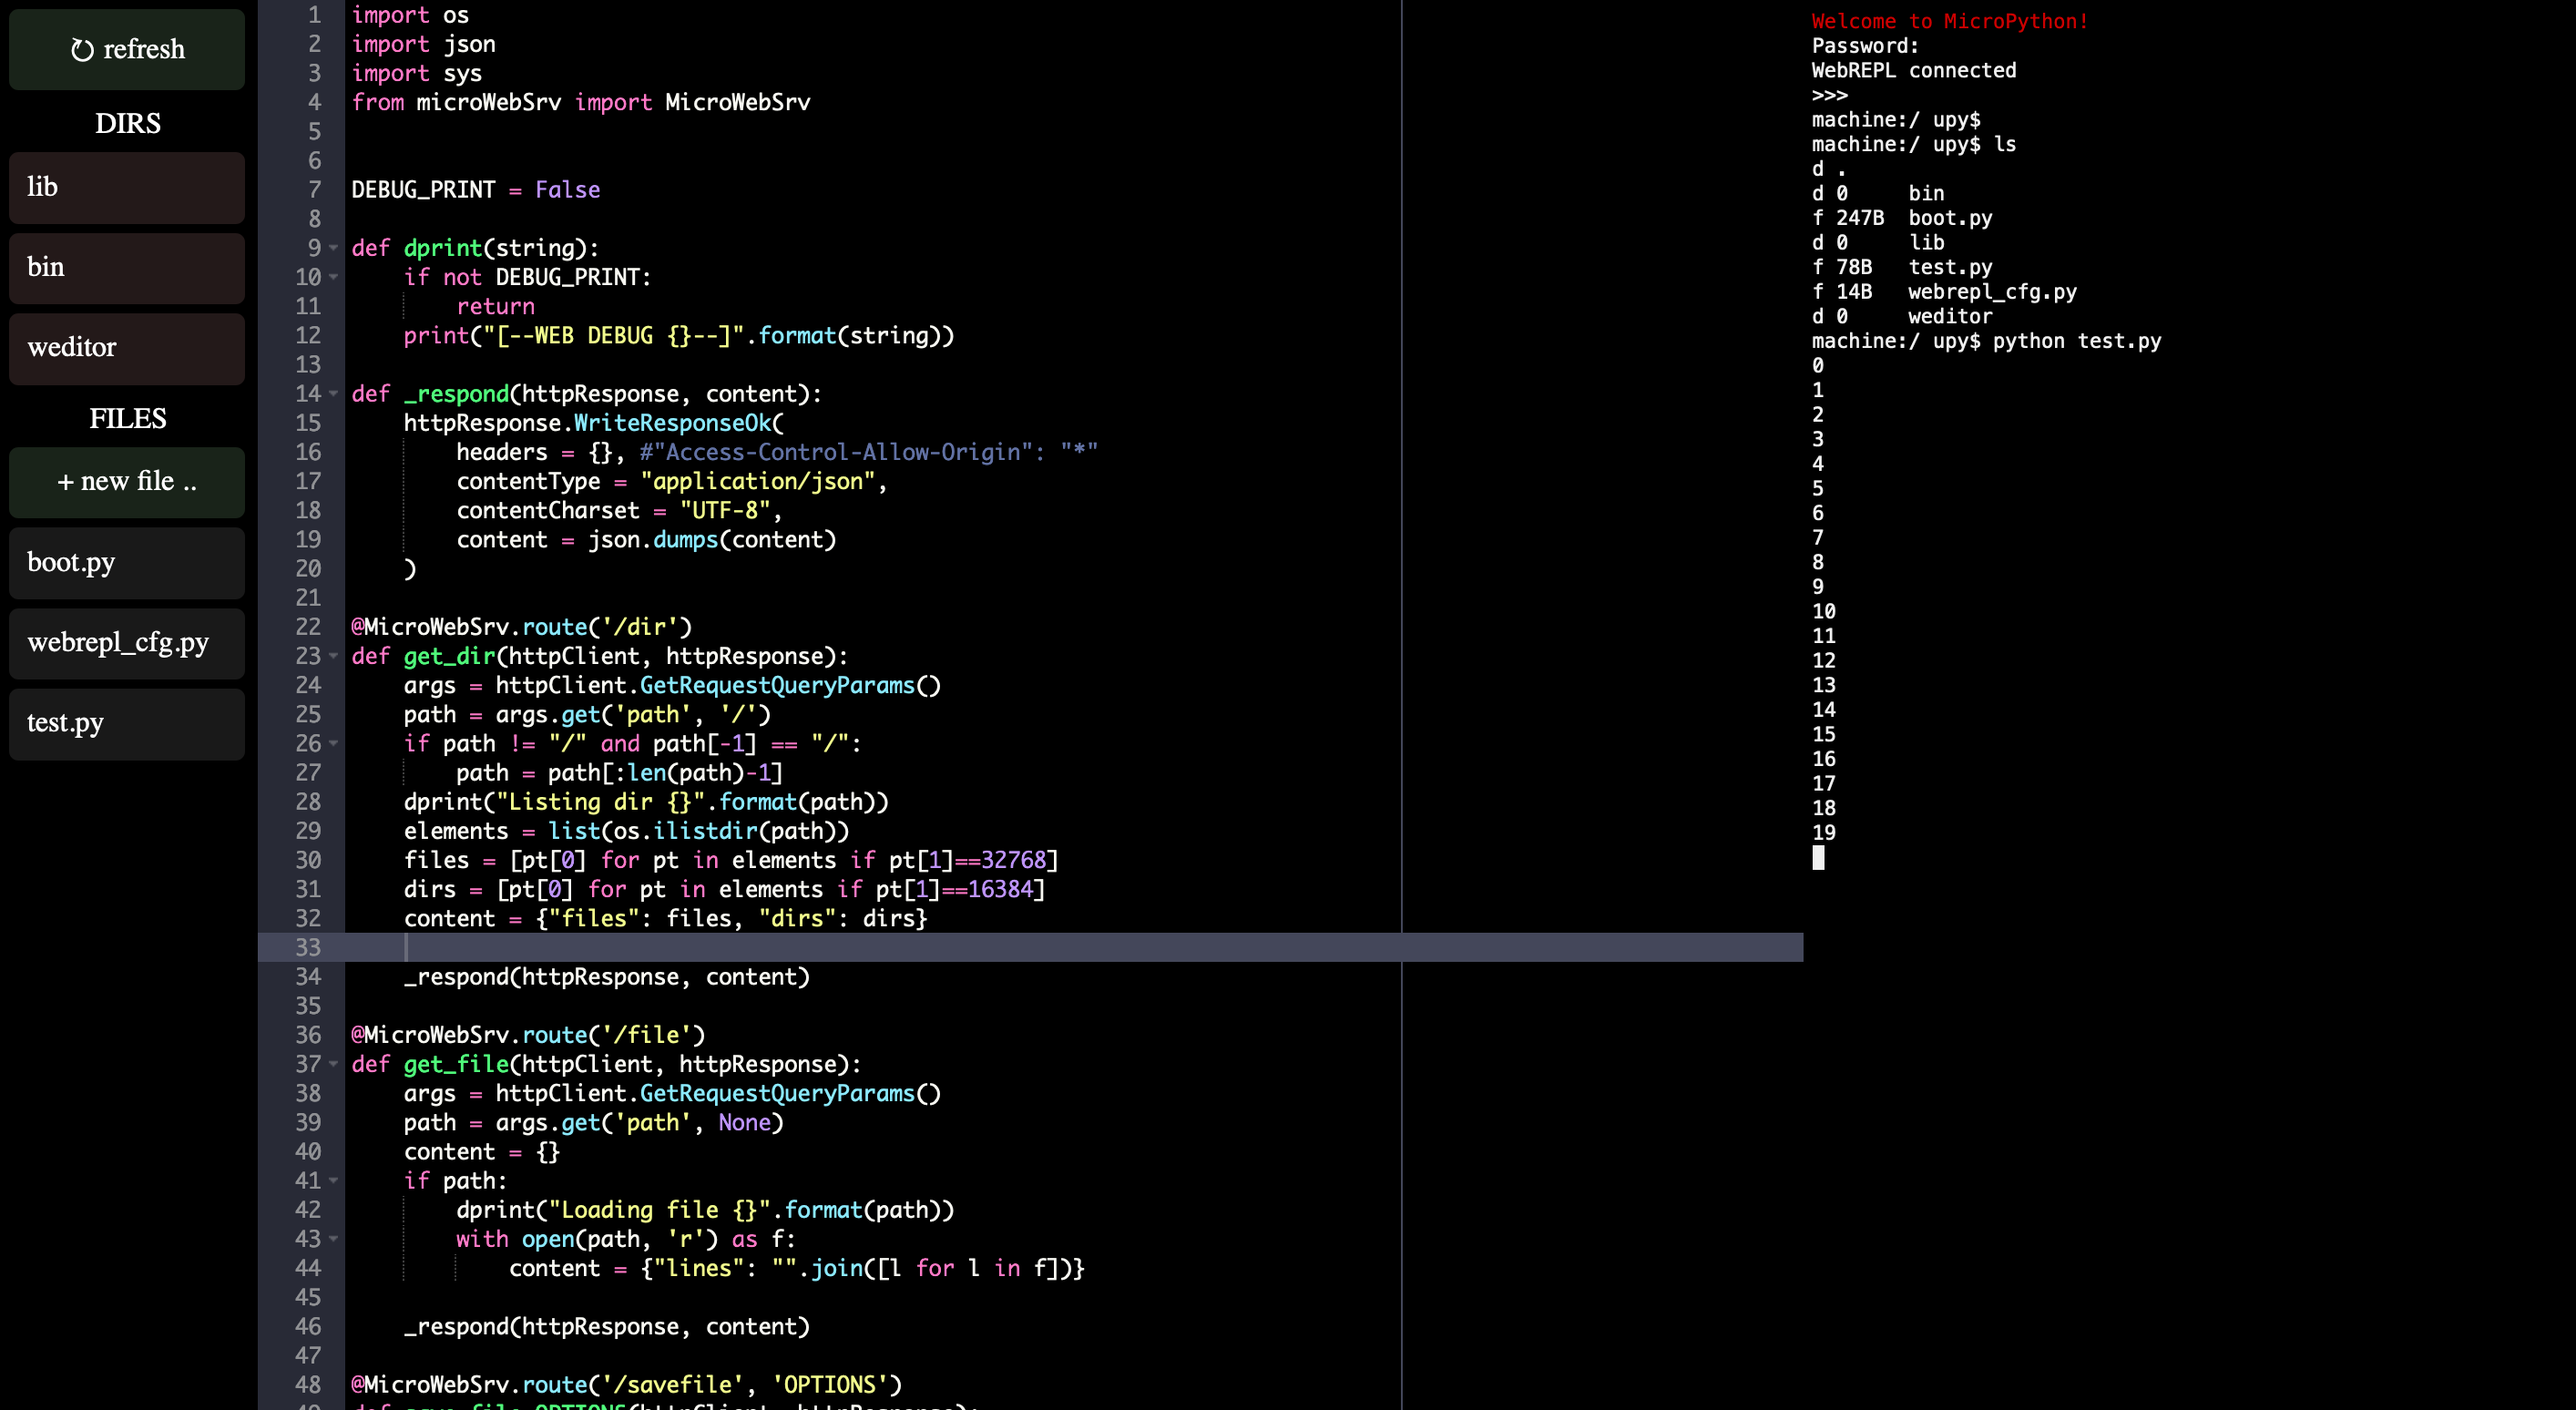
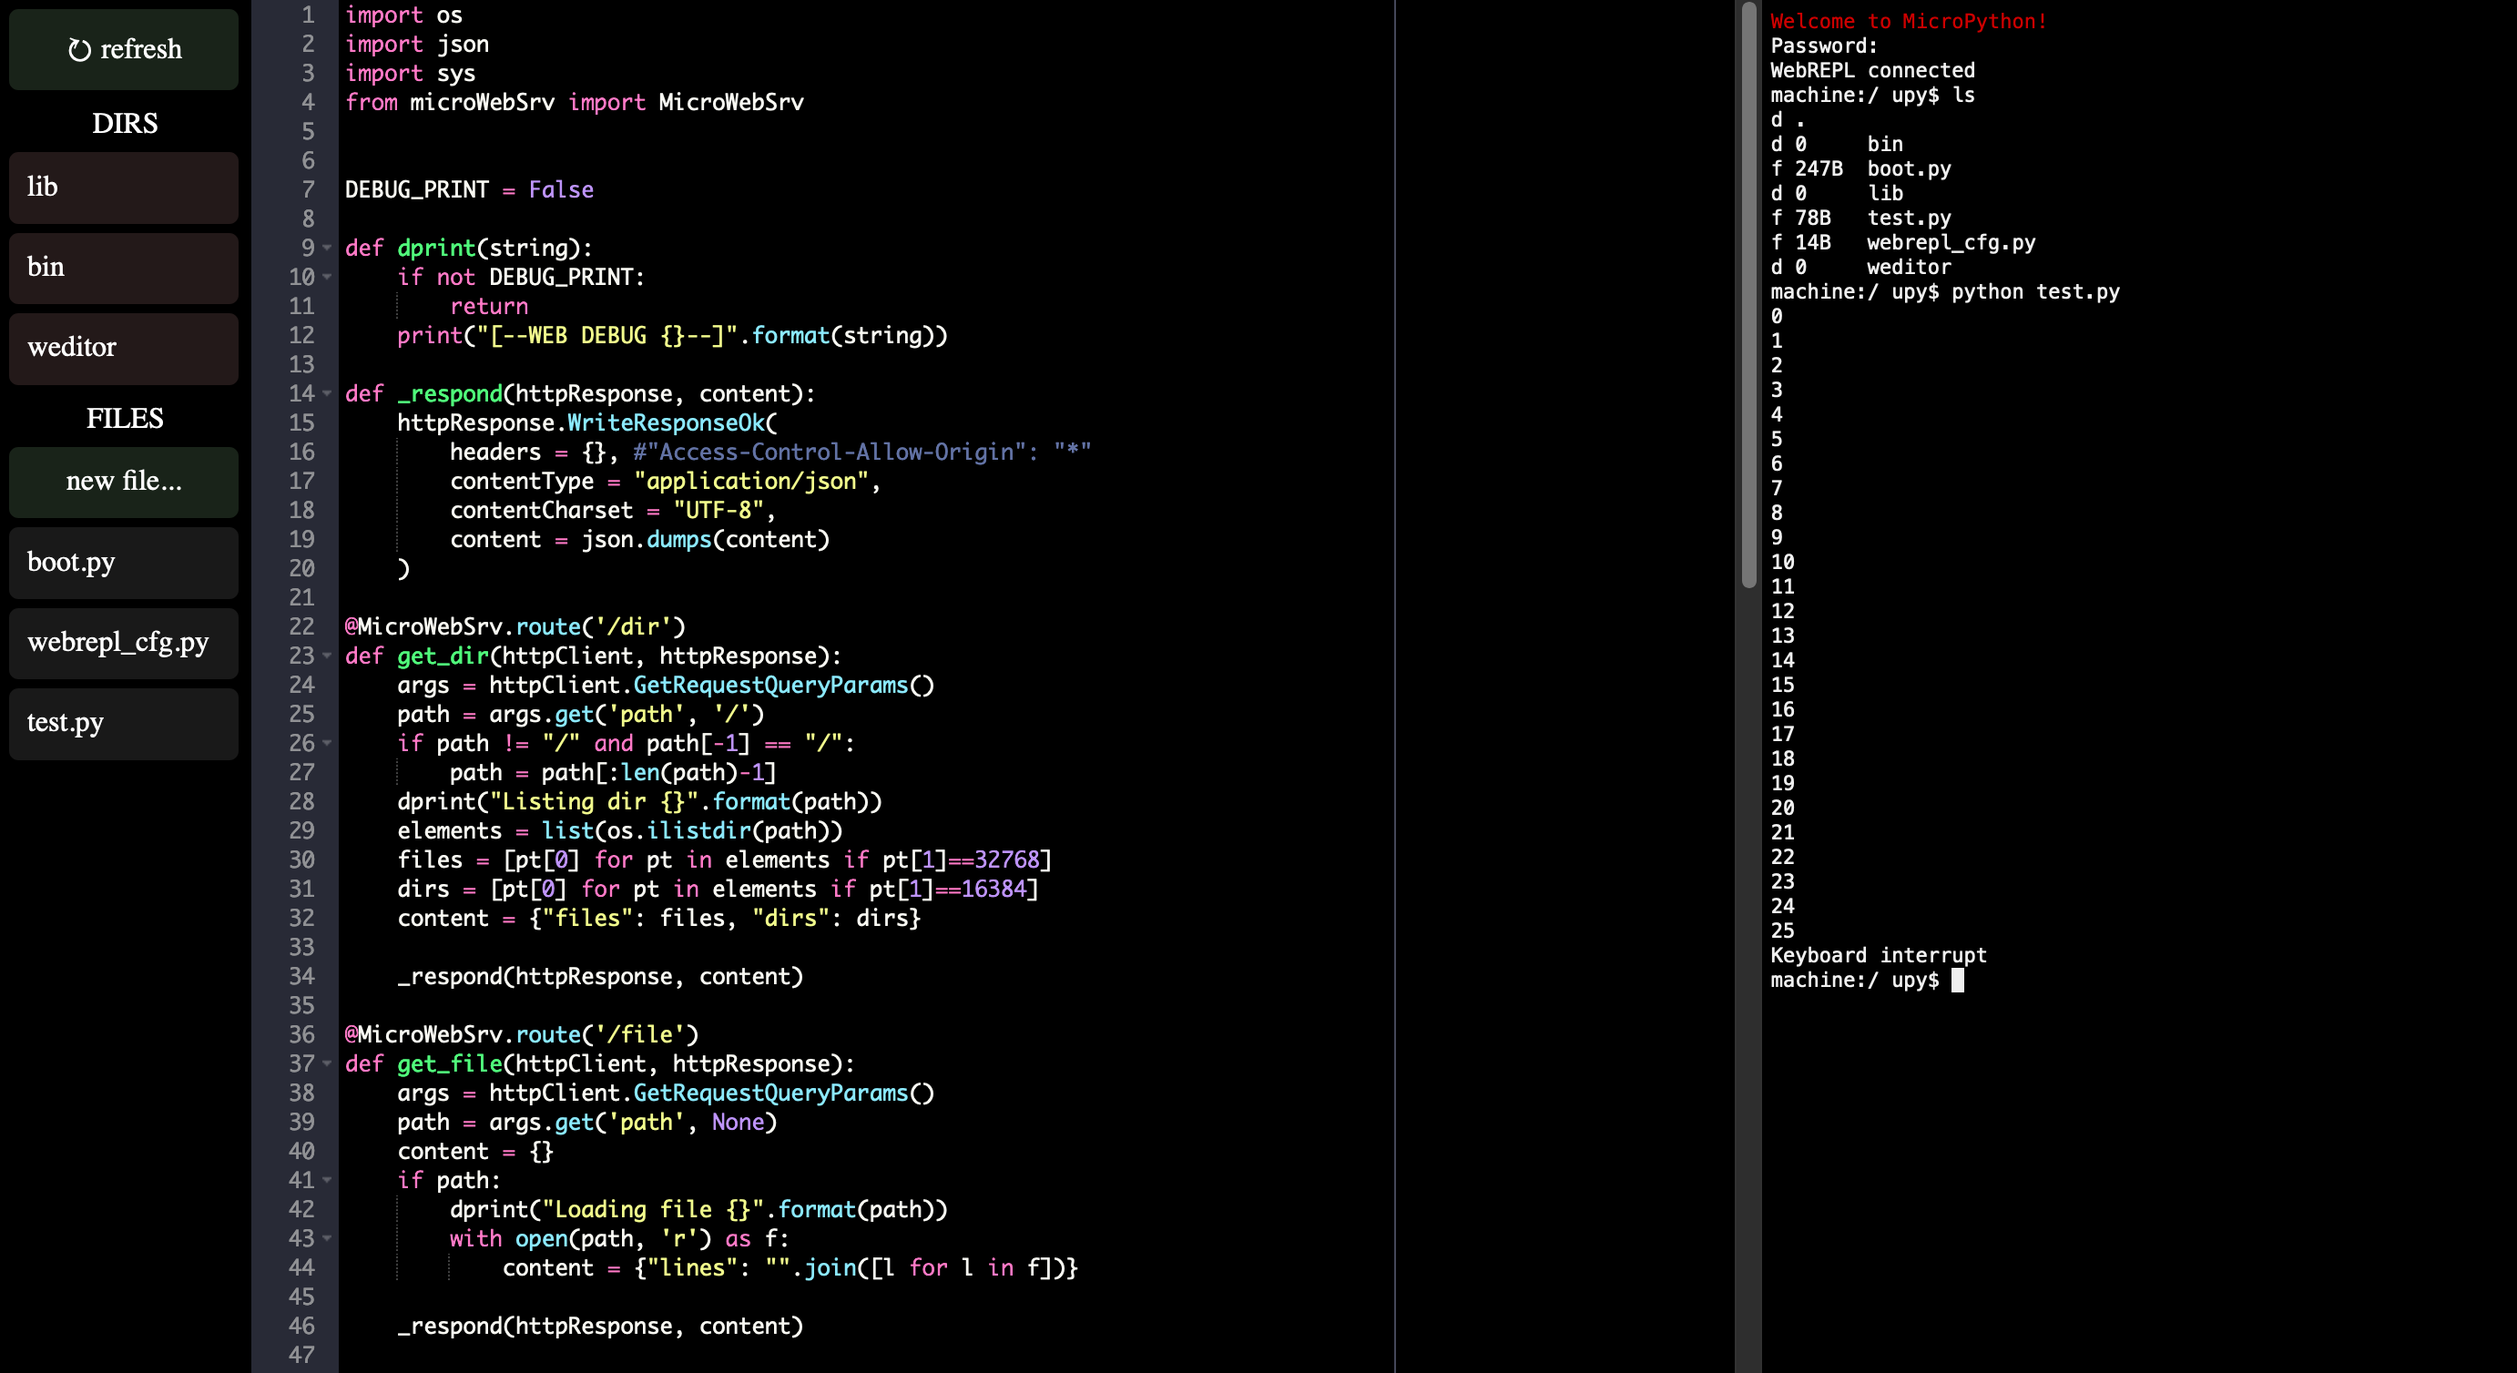
Updated formatting, minor improvements

diff --git a/weditor/js/script.js b/weditor/js/script.js
@@ -9,17 +9,16 @@ function initEditor() {
 }
 
 function showNotification(text, seconds) {
-    var notifHolder = document.getElementById("notification");
-    var notifText = document.getElementById("notificationText");
-    notifText.innerHTML = text;
-    notifHolder.style.display = "block";
+    var notification = document.getElementById("notification");
+    notification.innerHTML = text;
+    notification.style.display = "block";
     if (seconds) {
-        setTimeout(hideNotification, seconds*1000);
+        setTimeout(hideNotification, seconds * 1000);
     }
 }
 function hideNotification() {
-    var notifHolder = document.getElementById("notification");
-    notifHolder.style.display = "none";
+    var notification = document.getElementById("notification");
+    notification.style.display = "none";
 }
 
 function actionRefreshDirectory() {
@@ -32,8 +31,8 @@ function actionActivateDirectory(event) {
 }
 function actionActivateParentDirectory(event) {
     var components = window.activeFileDir.split("/");
-    if (components.lenght <= 2) return;
-    components.splice(components.length-2, 1);
+    if (components.length <= 2) return;
+    components.splice(components.length - 2, 1);
     window.activeFileDir = components.join("/");
     loadDirPath(window.activeFileDir);
 }
@@ -46,27 +45,27 @@ function actionCreateNewFile(event) {
     if (fname) {
         fpath = window.activeFileDir + fname;
         showNotification("Creating file: " + fpath);
-        fetch("/newfile?path="+fpath).then(response=>response.json()).then(json=>createdFile(json));
+        fetch("/newfile?path=" + fpath).then(response => response.json()).then(json => createdFile(json));
     }
 }
 function actionActivateFile(event) {
     var fpath = window.activeFileDir + event.target.innerHTML;
     console.log("Loading file ", "==" + fpath + "==");
     showNotification("Loading file: " + fpath);
-    fetch("/file?path="+fpath).then(response=>response.json()).then(json=>loadedFile(fpath, json['lines']));
+    fetch("/file?path=" + fpath).then(response => response.json()).then(json => loadedFile(fpath, json['lines']));
 }
 function loadedFile(fname, lines) {
     editor.setValue(lines);
     var components = fname.split(".");
     var mode = "plain_text";
     if (components.length > 1) {
-        var ext = components[components.length-1];
-        if (ext=="py") mode = "python";
-        if (ext=="html") mode = "html";
-        if (ext=="css") mode = "css";
-        if (ext=="js") mode = "javascript";
+        var ext = components[components.length - 1];
+        if (ext == "py") mode = "python";
+        if (ext == "html") mode = "html";
+        if (ext == "css") mode = "css";
+        if (ext == "js") mode = "javascript";
     }
-    editor.session.setMode("ace/mode/"+mode);
+    editor.session.setMode("ace/mode/" + mode);
     window.activeFilePath = fname;
     window.activeFileName = fname;
     editor.selection.clearSelection();
@@ -77,7 +76,7 @@ function actionSaveFile() {
     fetch('/savefile', {
         method: 'POST',
         headers: {
-        'Content-Type': 'application/json',
+            'Content-Type': 'application/json',
         },
         body: JSON.stringify({"lines": globalEditor.getValue(), "path": window.activeFilePath}),
     })
@@ -95,7 +94,7 @@ function actionSaveFile() {
 function loadDirPath(path) {
     window.activeFileDir = path;
     showNotification("Loading directory: " + path);
-    fetch("/dir?path="+path).then(response=>response.json()).then(json=>updateFileList(json));
+    fetch("/dir?path=" + path).then(response => response.json()).then(json => updateFileList(json));
 }
 function updateFileList(json) {
     var files = json.files;
@@ -122,7 +121,7 @@ function updateFileList(json) {
     }
     
     addSpan("FILES", "left_title");
-    addSpan("+ new file ..", "left_element left_action", actionCreateNewFile);
+    addSpan("new file...", "left_element left_action", actionCreateNewFile);
 
     for (var fileName of files) {
         addSpan(fileName, "left_element left_file", actionActivateFile);

diff --git a/weditor/style.css b/weditor/style.css
@@ -1,19 +1,11 @@
 
 body {
-    overflow: scroll;
+    overflow: auto;
     margin: 0;
     height: 100vh;
     background-color: black;
 }
 
-#editor2 {
-    margin: 0;
-    position: relative;
-    top: 0;
-    bottom: 0;
-    left: 0;
-    right: 0;
-}
 #editor {
     height: 100%;
     width: 100%;
@@ -21,37 +13,44 @@ body {
     background-color: black;
 }
 #left {
-    width: 10%; height:100%; float: left; position: relative; background-color: black; overflow: scroll; user-select: none; color: white;
+    position: relative; 
+    width: 10%; 
+    height: 100%; 
+    float: left; 
+    overflow: auto; 
+    user-select: none; 
+    background-color: black; 
+    color: white;
 }
 #notification {
     position: absolute;
-    width: 100%;
-    bottom: 0;
-    padding-bottom: 10px;
-    text-align: center;
-}
-#notificationText {
-    background-color: rgb(30,25,25);
+    bottom: 10px;
     width: 50%;
-    margin: 0 auto;
     padding: 10px;
-    display: inline-block;
+    margin: 0 auto;
+    right: 0;
+    left: 0;
+    text-align: center;
     border-radius: 5px;
+    background-color: rgb(30,25,25);
     color: white;
+}
+#term {
+    position: relative; width: 30%; height: 100%; float: left; background-color: black;
 }
 
 .left_title {
-    float: left;
     position: relative;
+    float: left;
     text-align: center;
     width: 100%;
     margin-top: 10px;
 }
 .left_element {
+    position: relative;
     width: calc(100% - 20px - 2px - 10px);
     margin: 5px 5px 0px 5px;
     padding: 10px;
-    position: relative;
     float: left;
     border-radius: 5px;
     color: white;
@@ -69,13 +68,6 @@ body {
 .left_dir {
     background-color: rgb(35,25,25);
 }
-
-#term {
-    width: 30%; height:calc(100% - 0px); float: left; position: relative; background-color: black;
-}
-.header {
-    width: 90%; height:0; float: left; position: relative; background-color: green;
-}
 .eholder {
-    width: 60%; height:calc(100% - 0px); float: left; position: relative; background-color: black;
+    position: relative; width: 60%; height: 100%; float: left; background-color: black;
 }

diff --git a/weditor/index.html b/weditor/index.html
@@ -15,17 +15,11 @@
         <div id="left">
             LOADING FILES
         </div>
-        <div class="header">
-            header
-        </div>
         <div class="eholder">
             <pre id="editor">LOADING EDITOR</pre>
         </div>
-        <div id="term">
-        </div>
-        <div id="notification">
-            <span id="notificationText">LOADING FILES</span>
-        </div>
+        <div id="term"></div>
+        <div id="notification"></div>
 
         <script src="js/webrepl.min.js"></script>
         <script>
